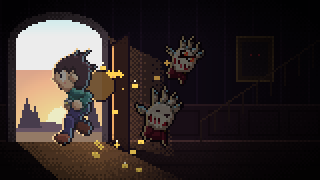
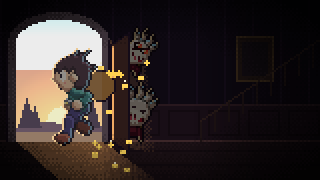
art: win_screen_art figures kept in left half; rename legacy replace_me stills to <slot>_template.png

diff --git a/docs/DESIGN.md b/docs/DESIGN.md
@@ -3,7 +3,7 @@
 Style: Dead Cells / fancy modern SNES — full-color creepy, flashlight as bright focus. ~64×64 characters, ~32×32 tiles.
 
 ## Replace loop
-1. Open `assets/replace_me/` — labeled stills (`boy_side_idle`, `boy_mid_jump`, `puppet_hand_calm`, `puppet_hand_enraged`, …).
+1. Open `assets/replace_me/` — every slot has `<slot>_template.png` (e.g. `boy_side_idle_template.png`, `boy_mid_jump_template.png`, `puppet_hand_calm_template.png`, `puppet_hand_enraged_template.png`, `exit_door_template.png`, `floor_dark_template.png`, …).
 2. Overwrite the matching `assets/art/...` path from `ASSETS_MANIFEST.toml`.
 3. Flip `status` to `"human"`. Watermark stays until art+audio are all human.
 
@@ -42,7 +42,7 @@ Style: Dead Cells / fancy modern SNES — full-color creepy, flashlight as brigh
 | merchant_idle | art/characters/merchant_idle.png | 64² | 6f @8fps loop, pivot [32, 63]: mask merchant, lantern, beckon |
 | shop_backdrop | art/ui/shop_backdrop.png | 320x180 | still, pivot [160, 90]: shop interior still |
 | game_over_art | art/ui/game_over_art.png | 320x180 | still, pivot [160, 90]: boy caught by hands still; right half free for text |
-| win_screen_art | art/ui/win_screen_art.png | 320x180 | still, pivot [160, 90]: boy escapes out the front door into dawn with gold, puppets recoil in the shadows; same layout as game_over_art, right half calm/dark for seed + gold text and the New run button |
+| win_screen_art | art/ui/win_screen_art.png | 320x180 | still, pivot [160, 90]: boy escapes out the front door into dawn with gold, puppets recoil behind the door leaf; all figures in the left half (x < 160), right half dark ambience only for seed + gold text and the New run button (same layout as game_over_art) |
 | item_icon_extra_heart | art/ui/icons/item_icon_extra_heart.png | 32² | still, pivot [16, 16]: +1 heart |
 | item_icon_minimap | art/ui/icons/item_icon_minimap.png | 32² | still, pivot [16, 16]: minimap |
 | item_icon_bright_bulb | art/ui/icons/item_icon_bright_bulb.png | 32² | still, pivot [16, 16]: light startles faster |
